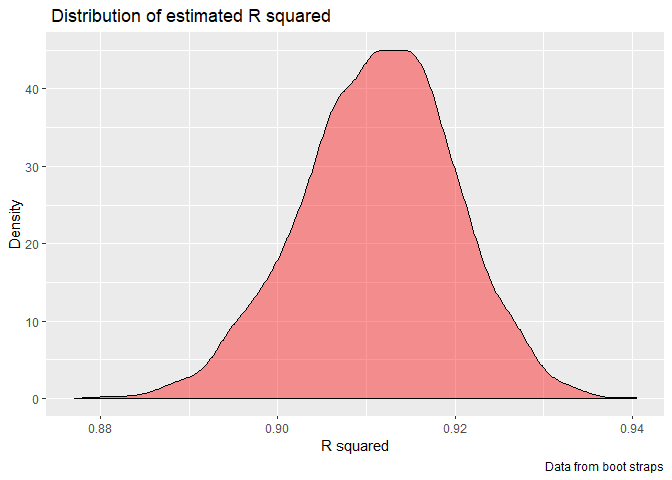
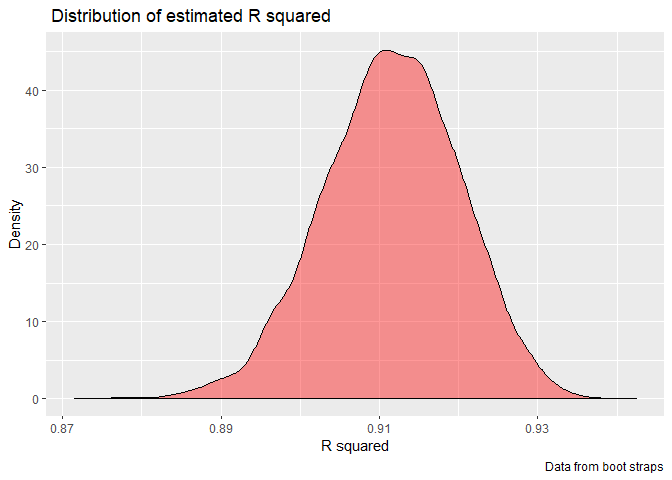
Finish problem 2 adding 95%CI  and adding comments toward graphs for both questions.

diff --git a/p8105_hw6_bl2789.md b/p8105_hw6_bl2789.md
@@ -231,10 +231,20 @@ Plot:
 ``` r
 plot = as_tibble(add_residuals(fit,data=add_predictions(fit,data=birth_weight)))
 ggplot(plot, aes(x=pred,y=resid))+
-  geom_point(alpha = 0.4)
+  geom_point(alpha = 0.4)+
+  stat_smooth(method = "lm") +
+  labs(
+    title = "The model residuals against fitted values",
+    x = "Prediction",
+    y = "Residuals",
+    caption = "Data from birth weight")
 ```
 
 ![](p8105_hw6_bl2789_files/figure-gfm/unnamed-chunk-4-1.png)<!-- -->
+
+The Residual Plot seems like a flat line by 0, however it is residual
+varies too much from -1000 to 2000. Residuals are not symmetrically
+distributed, tending to cluster towards the right of the plot.
 
 Other two models:
 
@@ -341,6 +351,25 @@ fit\_2
 
 </table>
 
+``` r
+cv_df %>% 
+  select(starts_with("rmse")) %>% 
+  pivot_longer(
+    everything(),
+    names_to = "model", 
+    values_to = "rmse",
+    names_prefix = "rmse_") %>% 
+  mutate(model = fct_inorder(model))%>%
+  ggplot(aes(x = model, y = rmse)) + geom_violin()
+```
+
+![](p8105_hw6_bl2789_files/figure-gfm/unnamed-chunk-8-1.png)<!-- -->
+
+Since the first model, which we selected using stepwise backward
+selection according to AIC score, has the lowest cross-validation
+predicted error for mean and overall distribution. Our model is a better
+choice.
+
 #### Problem 2
 
 ``` r
@@ -376,6 +405,7 @@ weather_df =
 Simple linear regression
 
 ``` r
+set.seed(233)
 boot_straps = weather_df %>% 
               modelr::bootstrap(n = 5000)%>%
               mutate(
@@ -430,3 +460,37 @@ ggplot(final)+
 ```
 
 ![](p8105_hw6_bl2789_files/figure-gfm/unnamed-chunk-11-2.png)<!-- -->
+
+  - The R^2 is pretty large for the boot straps data and has the tmin
+    could explain decently for tmax in the simple linear regression
+    model.  
+  - The log(β\_0\*β\_1) estimates’ distribution followed the bell shape,
+    which implies the validation of normality.
+
+##### b
+
+Identify the 2.5% and 97.5% quantiles to provide a 95% confidence
+interval
+
+  - **R\_squared**
+
+<!-- end list -->
+
+``` r
+# R_squared
+c(quantile(pull(final,r_squared), probs = 0.025), quantile(pull(final,r_squared), probs = 0.975))
+```
+
+    ##      2.5%     97.5% 
+    ## 0.8942325 0.9275534
+
+  - \*\*log(β\_0\*β\_1)\*\*
+
+<!-- end list -->
+
+``` r
+c(quantile(pull(final,log), probs = 0.025), quantile(pull(final,log), probs = 0.975))
+```
+
+    ##     2.5%    97.5% 
+    ## 1.965941 2.059171
